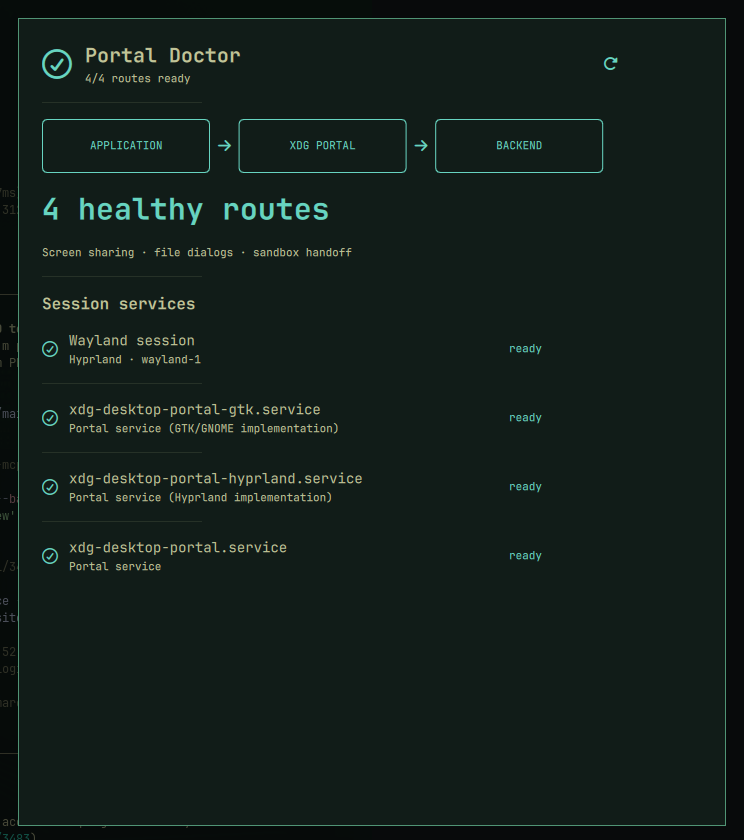
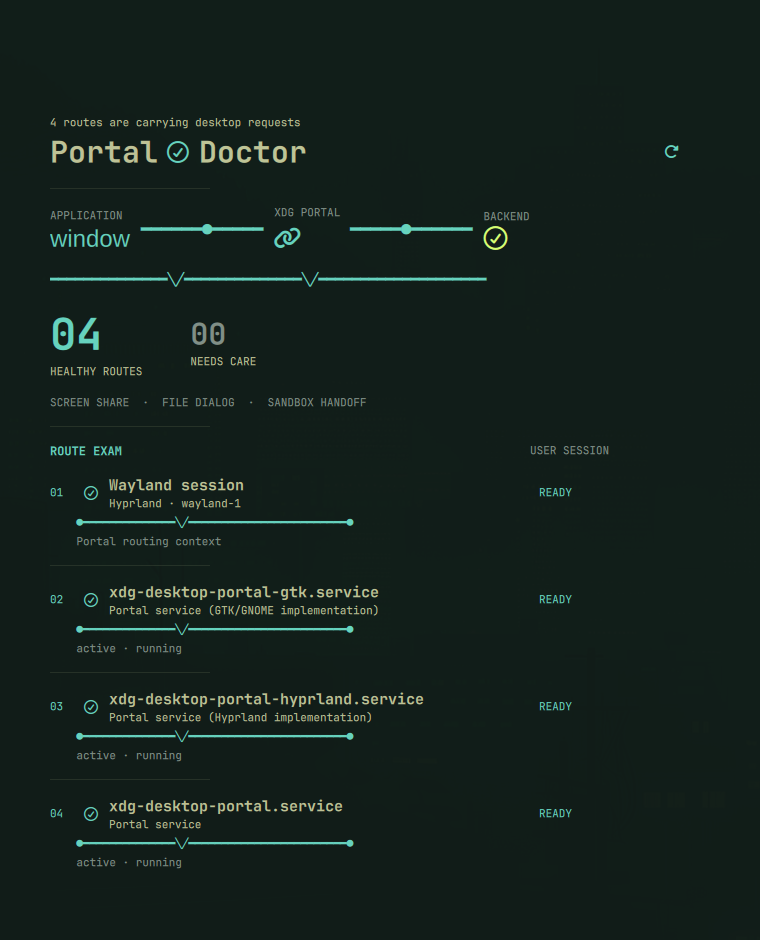
Redesign Portal Doctor as route telemetry

diff --git a/main.rb b/main.rb
@@ -345,68 +345,96 @@ OmarchyUI.plugin do
   end
 
   bar_widget do
-    row spacing: 7 do
-      icon :circle_check, color: "#67d4c0"
-      text { state.snapshot.fetch("summary") }
+    row spacing: 6 do
+      icon :circle_check, size: 14, color: "#67d4c0"
+      text "PORTAL", style: :caption, color: "#67d4c0"
+      text(style: :caption) { state.snapshot.fetch("summary") }
     end
     on_click { open_panel :portal_doctor }
   end
 
   panel :portal_doctor do
-    scroll width: 660, height: 760 do
+    scroll width: 660, height: 780 do
       dynamic id: :scene, spacing: 16 do
         entries = state.snapshot.fetch("items")
-        history = state.snapshot.fetch("history")
+        ready = entries.count { |entry| entry.fetch("status", "") == "ready" }
+        inactive = entries.count { |entry| entry.fetch("status", "") == "inactive" }
 
-        row spacing: 12 do
-          icon :circle_check, size: 30, color: "#67d4c0"
-          column spacing: 2 do
-            text "Portal Doctor", style: :heading, width: 500
-            text state.snapshot.fetch("summary"), style: :caption, width: 500
-          end
-          action_button :refresh, tooltip: "Refresh", foreground: "#67d4c0" do
-            async(&refresh)
+        column spacing: 2 do
+          text "#{ready} routes are carrying desktop requests", style: :caption, width: 610
+          row spacing: 9 do
+            text "Portal", size: 30, bold: true
+            icon :circle_check, size: 22, color: "#67d4c0"
+            text "Doctor", size: 30, bold: true, width: 450
+            action_button :refresh, tooltip: "Run portal checkup", foreground: "#67d4c0" do
+              async(&refresh)
+            end
           end
         end
 
         separator
-        ready = entries.count { |entry| entry.fetch("status", "") == "ready" }
-            row spacing: 8 do
-              rectangle width: 168, height: 54, radius: 5, border_width: 1, border_color: "#67d4c0", padding: 8 do
-                text "APPLICATION", style: :caption, color: "#67d4c0"
-              end
-              icon :arrow_right, color: "#67d4c0"
-              rectangle width: 168, height: 54, radius: 5, border_width: 1, border_color: "#67d4c0", padding: 8 do
-                text "XDG PORTAL", style: :caption, color: "#67d4c0"
-              end
-              icon :arrow_right, color: "#67d4c0"
-              rectangle width: 168, height: 54, radius: 5, border_width: 1, border_color: "#67d4c0", padding: 8 do
-                text "BACKEND", style: :caption, color: "#67d4c0"
-              end
-            end
-            text "#{ready} healthy routes", size: 30, bold: true, color: "#67d4c0"
-            text "Screen sharing · file dialogs · sandbox handoff", style: :caption
-            separator
-            section_header "Session services"
-            if entries.empty?
-              column spacing: 8 do
-                        icon :circle_check, size: 34, color: "#67d4c0"
-                        text "Nothing to show yet", style: :heading
-                        text "No desktop portal services were visible in the user session.", style: :caption, wrap: true, width: 560
-                      end
-            else
-              entries.each_with_index do |entry, index|
-                row spacing: 10 do
-                  icon status_icon.call(entry.fetch("status", "")), color: status_color.call(entry.fetch("status", ""))
-                  column spacing: 2 do
-                    text entry.fetch("title"), width: 430
-                    text entry.fetch("detail", ""), style: :caption, width: 430, wrap: true
-                  end
-                  text entry.fetch("status", ""), style: :caption, color: status_color.call(entry.fetch("status", ""))
+        row spacing: 10 do
+          column spacing: 2 do
+            text "APPLICATION", style: :caption, color: "#829088"
+            icon :window, size: 24, color: "#67d4c0"
+          end
+          text "━━━━━━●━━━━━", size: 17, color: "#67d4c0"
+          column spacing: 2 do
+            text "XDG PORTAL", style: :caption, color: "#829088"
+            icon :link, size: 24, color: "#67d4c0"
+          end
+          text "━━━━━●━━━━━━", size: 17, color: "#67d4c0"
+          column spacing: 2 do
+            text "BACKEND", style: :caption, color: "#829088"
+            icon :circle_check, size: 24, color: inactive.zero? ? "#d8ff73" : "#ff8b8b"
+          end
+        end
+        text "━━━━━━━━━━━━━━╲╱━━━━━━━━━━━━━━╲╱━━━━━━━━━━━━━━━━━━━━", size: 14,
+             color: inactive.zero? ? "#67d4c0" : "#ff8b8b"
+        row spacing: 48 do
+          column spacing: 0 do
+            text ready.to_s.rjust(2, "0"), size: 44, bold: true, color: "#67d4c0"
+            text "HEALTHY ROUTES", style: :caption
+          end
+          column spacing: 0 do
+            text inactive.to_s.rjust(2, "0"), size: 30, bold: true,
+                 color: inactive.zero? ? "#829088" : "#ff8b8b"
+            text "NEEDS CARE", style: :caption
+          end
+        end
+        text "SCREEN SHARE  ·  FILE DIALOG  ·  SANDBOX HANDOFF", style: :caption, color: "#829088"
+        separator
+        row spacing: 10 do
+          text "ROUTE EXAM", size: 12, bold: true, color: "#67d4c0", width: 470
+          text "USER SESSION", style: :caption, color: "#829088"
+        end
+
+        if entries.empty?
+          column spacing: 8 do
+            icon :warning, size: 30, color: "#ff8b8b"
+            text "No portal pulse detected", size: 21, bold: true
+            text "No desktop portal services were visible in the user session.",
+                 style: :caption, wrap: true, width: 560
+          end
+        else
+          entries.each_with_index do |entry, index|
+            route_color = entry.fetch("status", "") == "ready" ? "#67d4c0" : "#ff8b8b"
+            column spacing: 4 do
+              row spacing: 10 do
+                text (index + 1).to_s.rjust(2, "0"), style: :caption, color: route_color, width: 24
+                icon status_icon.call(entry.fetch("status", "")), size: 14, color: route_color
+                column spacing: 1 do
+                  text entry.fetch("title"), width: 420, size: 15, bold: true, wrap: true
+                  text entry.fetch("detail", ""), style: :caption, width: 420, wrap: true
                 end
-                separator unless index == entries.length - 1
+                text entry.fetch("status", "").upcase, style: :caption, color: route_color, width: 100
               end
+              text "    ●━━━━━━━━━━━━━━╲╱━━━━━━━━━━━━━━━━━━━━━━━━●", style: :caption, color: route_color
+              text "    #{entry.fetch("meta", "")}", style: :caption, color: "#829088", width: 560, wrap: true
             end
+            separator unless index == entries.length - 1
+          end
+        end
       end
     end
   end
